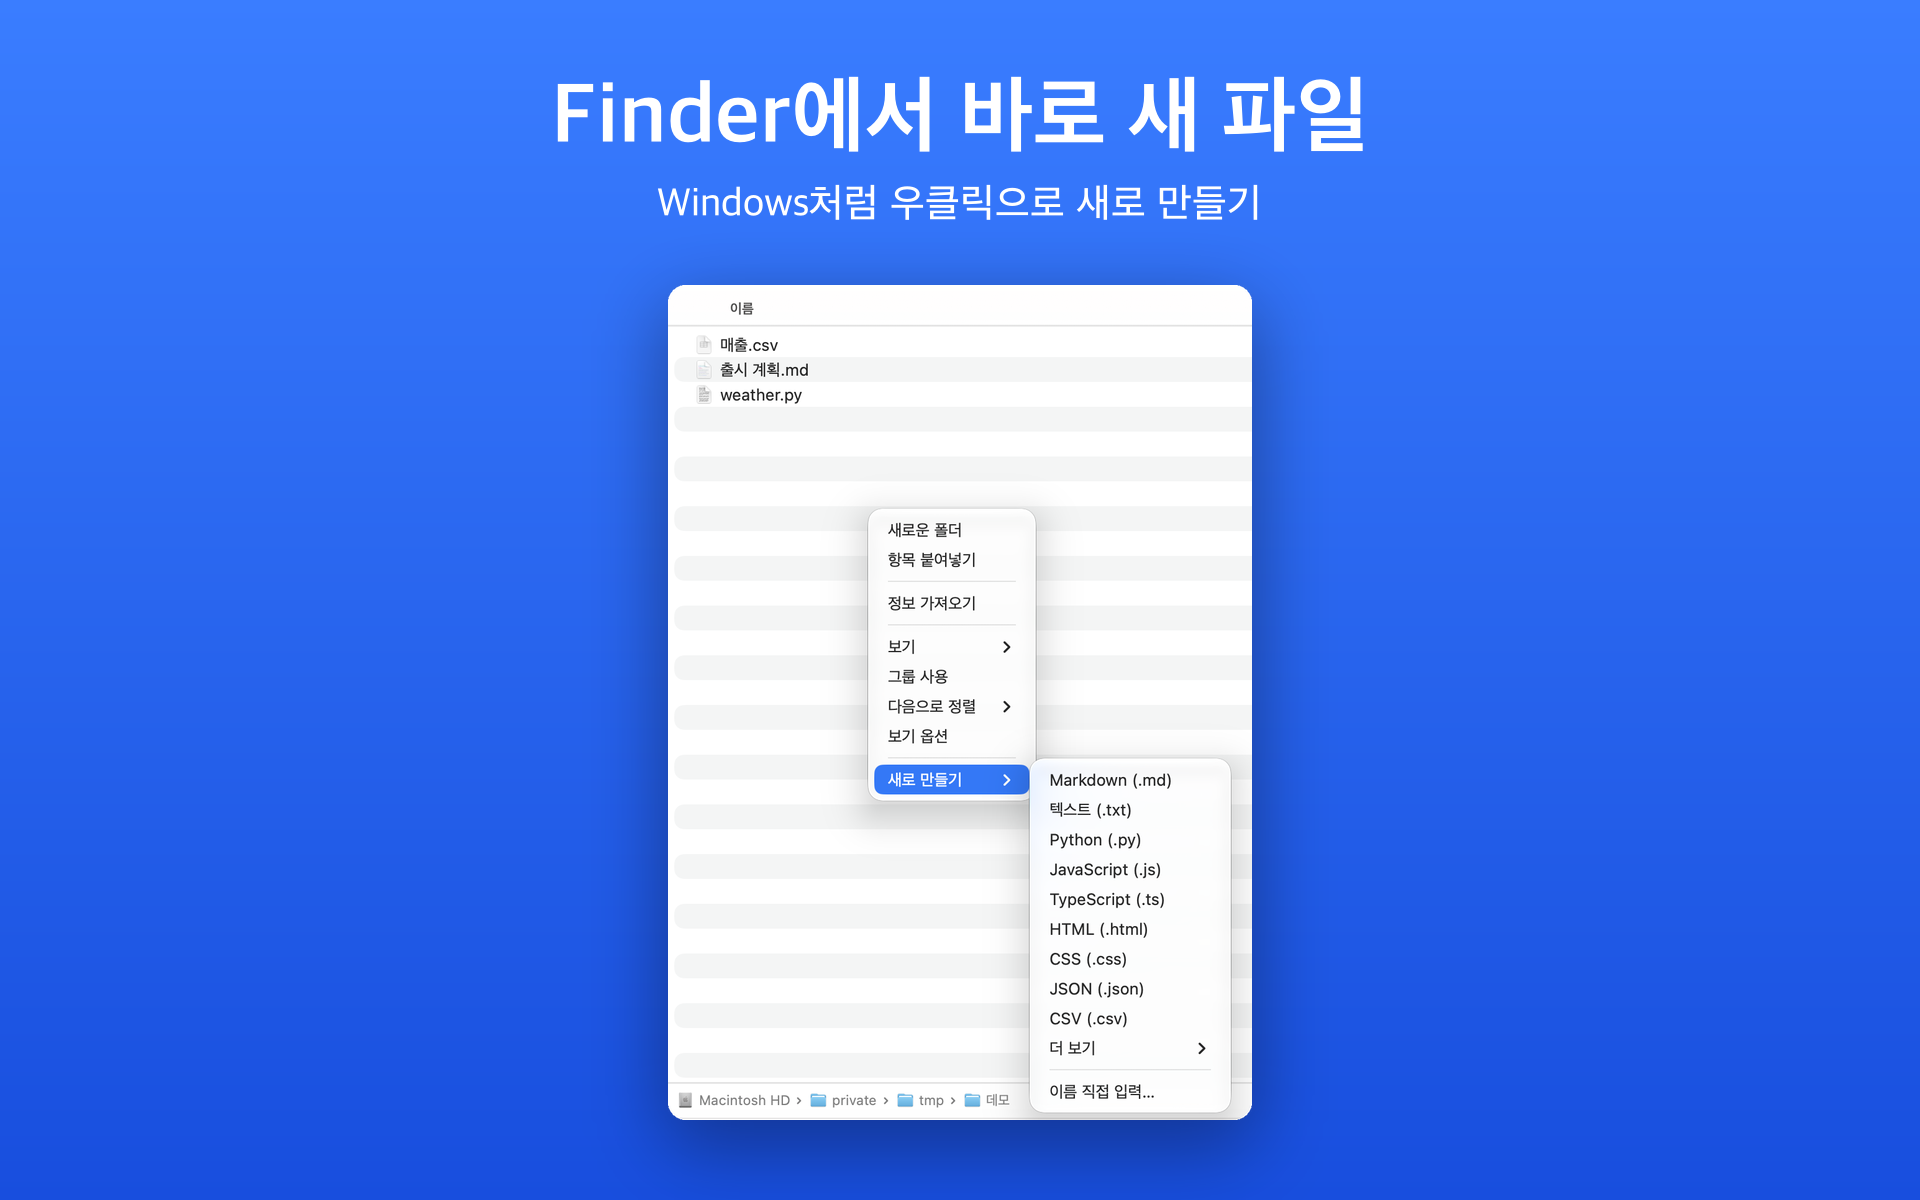
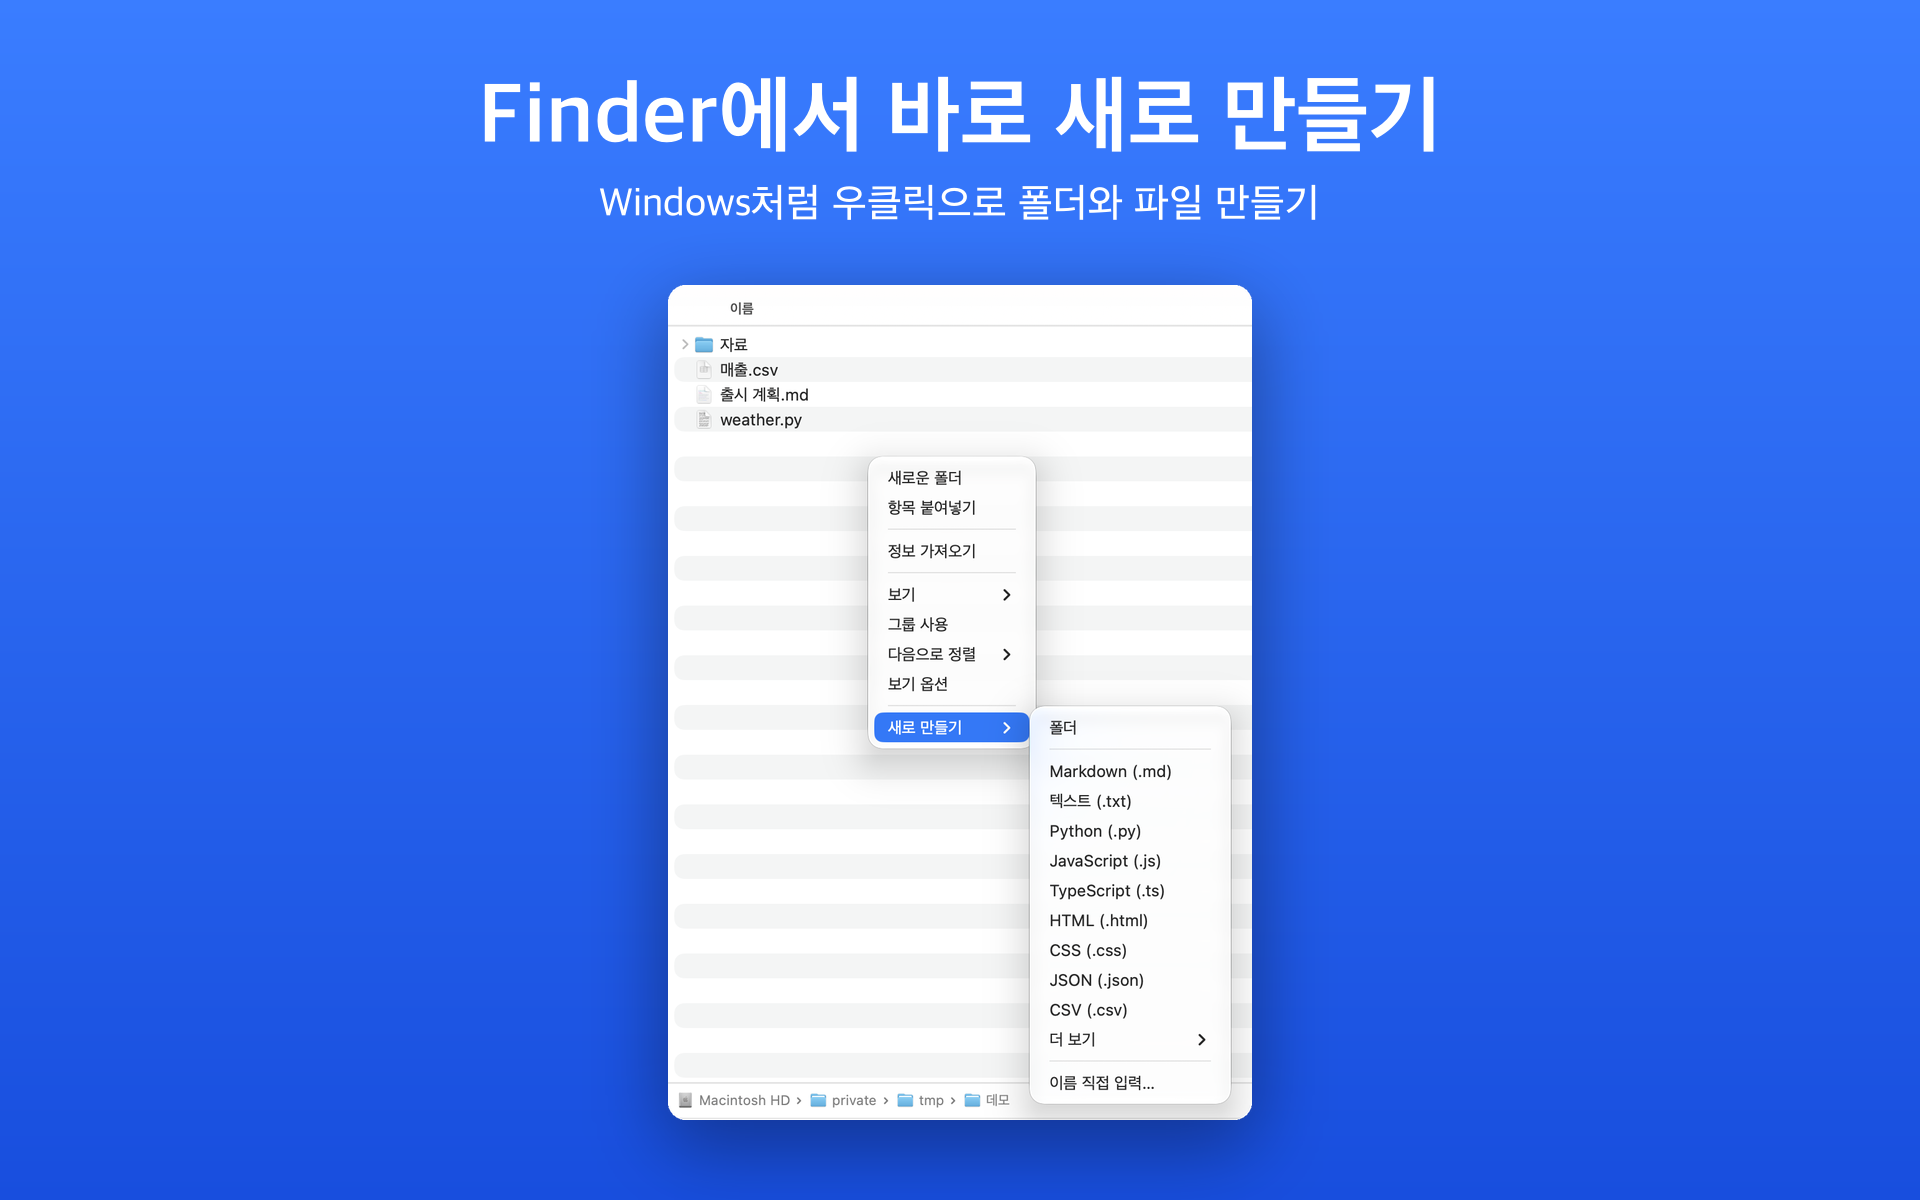
Add New Folder to the Finder menu
The toolbar button and the right-click New menu now start with Folder,
then Markdown and the other formats, as on Windows. The app asks for the
folder's name (Finder's default, 무제 폴더 / untitled folder, preselected),
refuses one that already exists, and selects the new folder in Finder.

install.sh unregisters the installed extensions only when the bundle ID
changed: removing and re-adding the same path raced and could leave the
Finder extension unregistered after a reinstall.

diff --git a/App/App.swift b/App/App.swift
@@ -362,8 +362,8 @@ final class AppDelegate: NSObject, NSApplicationDelegate {
     }
 
     /// From the Finder extension: `markdowneditor://new?dir=/path&ext=py` makes a Python file there,
-    /// `&ask=1` one of any kind. Either way the name prompt shows where and waits for the user, so no
-    /// link (from Finder or a web page) creates a file on its own.
+    /// `&ask=1` one of any kind, `&folder=1` a folder. Every time the name prompt shows where and waits
+    /// for the user, so no link (from Finder or a web page) creates anything on its own.
     @objc private func handleGetURL(_ event: NSAppleEventDescriptor, reply: NSAppleEventDescriptor) {
         guard let string = event.paramDescriptor(forKeyword: keyDirectObject)?.stringValue,
               let components = URLComponents(string: string), components.host == "new",
@@ -371,6 +371,10 @@ final class AppDelegate: NSObject, NSApplicationDelegate {
               case let folder = URL(filePath: dir, directoryHint: .isDirectory),
               (try? folder.resourceValues(forKeys: [.isDirectoryKey]).isDirectory) == true
         else { return }
+        if components.queryItems?.contains(where: { $0.name == "folder" }) == true {
+            if let made = NewFile.createFolder(in: folder) { NSWorkspace.shared.activateFileViewerSelecting([made]) }
+            return
+        }
         let ask = components.queryItems?.contains { $0.name == "ask" } == true
         let ext = components.queryItems?.first { $0.name == "ext" }?.value ?? "md"
         let format = ask ? nil : FileFormat.all.first { $0.extensions.contains(ext.lowercased()) } ?? .markdown
@@ -389,34 +393,23 @@ enum NewFile {
         var name = firstFreeName(in: folder, for: format ?? .text)
         var problem = ""
         while true {
-            let alert = NSAlert()
-            alert.messageText = format.map { String(localized: "새 \($0.name) 파일") } ?? String(localized: "새 파일")
-            alert.informativeText = problem + String(localized: "위치: \(place(folder))")
-                + (format == nil ? "\n" + String(localized: "확장자까지 입력하세요.\n예: main.go, notes.txt, .env") : "")
-            let field = NSTextField(frame: NSRect(x: 0, y: 0, width: 280, height: 24))
-            field.stringValue = name
-            field.usesSingleLineMode = true // a pasted line break becomes a space
-            alert.accessoryView = field
-            alert.addButton(withTitle: String(localized: "만들기"))
-            alert.addButton(withTitle: String(localized: "취소"))
-            alert.window.initialFirstResponder = field
             // A format's prompt selects the name before the extension; "any kind" selects all of it,
             // since the extension is the user's to type.
             let selected = format == nil ? name.utf16.count : (name as NSString).deletingPathExtension.utf16.count
-            DispatchQueue.main.async { field.currentEditor()?.selectedRange = NSRange(location: 0, length: selected) }
-            guard alert.runModal() == .alertFirstButtonReturn else { return nil }
-
-            name = field.stringValue.trimmingCharacters(in: .whitespaces)
+            guard let typed = askName(
+                title: format.map { String(localized: "새 \($0.name) 파일") } ?? String(localized: "새 파일"),
+                note: problem + String(localized: "위치: \(place(folder))")
+                    + (format == nil ? "\n" + String(localized: "확장자까지 입력하세요.\n예: main.go, notes.txt, .env") : ""),
+                name: name, selecting: selected)
+            else { return nil }
+            name = typed
             // A format's own extension goes on unless the name already ends in one: "회의록 v1.2" and
             // "2024.11.17" end in numbers, not extensions.
             if let format, !name.isEmpty, !name.hasPrefix("."), !Self.endsInExtension(name) {
                 name += "." + format.fileExtension
             }
-            guard !name.isEmpty, name != ".", name != "..", !name.contains("/"), !name.contains(":"),
-                  !name.unicodeScalars.contains(where: CharacterSet.controlCharacters.union(.newlines).contains),
-                  // A format's prompt makes visible files: an emptied name leaves just ".md".
-                  format == nil || !name.hasPrefix(".")
-            else {
+            // A format's prompt makes visible files: an emptied name leaves just ".md".
+            guard isUsable(name), format == nil || !name.hasPrefix(".") else {
                 problem = String(localized: "이 이름은 쓸 수 없어요.") + "\n"
                 continue
             }
@@ -431,6 +424,62 @@ enum NewFile {
                 return nil
             }
         }
+    }
+
+    /// Asks for a new folder's name, Finder's 무제 폴더 (무제 폴더 2, …) filled in and selected, and makes
+    /// the folder (never over an existing item). Nil if cancelled.
+    static func createFolder(in folder: URL) -> URL? {
+        NSApp.activate()
+        let untitled = String(localized: "무제 폴더")
+        var name = untitled, n = 1
+        while FileManager.default.fileExists(atPath: folder.appending(path: name).path(percentEncoded: false)) {
+            n += 1
+            name = "\(untitled) \(n)"
+        }
+        var problem = ""
+        while true {
+            guard let typed = askName(title: String(localized: "새 폴더"), note: problem + String(localized: "위치: \(place(folder))"),
+                                      name: name, selecting: name.utf16.count)
+            else { return nil }
+            name = typed
+            guard isUsable(name) else {
+                problem = String(localized: "이 이름은 쓸 수 없어요.") + "\n"
+                continue
+            }
+            let url = folder.appending(path: name, directoryHint: .isDirectory)
+            do {
+                try FileManager.default.createDirectory(at: url, withIntermediateDirectories: false)
+                return url
+            } catch CocoaError.fileWriteFileExists {
+                problem = String(localized: "같은 이름의 항목이 이미 있어요.") + "\n"
+            } catch {
+                NSAlert(error: error).runModal()
+                return nil
+            }
+        }
+    }
+
+    /// The name prompt files and folders share; the typed name, trimmed, or nil if cancelled.
+    private static func askName(title: String, note: String, name: String, selecting length: Int) -> String? {
+        let alert = NSAlert()
+        alert.messageText = title
+        alert.informativeText = note
+        let field = NSTextField(frame: NSRect(x: 0, y: 0, width: 280, height: 24))
+        field.stringValue = name
+        field.usesSingleLineMode = true // a pasted line break becomes a space
+        alert.accessoryView = field
+        alert.addButton(withTitle: String(localized: "만들기"))
+        alert.addButton(withTitle: String(localized: "취소"))
+        alert.window.initialFirstResponder = field
+        DispatchQueue.main.async { field.currentEditor()?.selectedRange = NSRange(location: 0, length: length) }
+        guard alert.runModal() == .alertFirstButtonReturn else { return nil }
+        return field.stringValue.trimmingCharacters(in: .whitespaces)
+    }
+
+    /// A name the file system and Finder accept as one item in the folder.
+    private static func isUsable(_ name: String) -> Bool {
+        !name.isEmpty && name != "." && name != ".." && !name.contains("/") && !name.contains(":")
+            && !name.unicodeScalars.contains(where: CharacterSet.controlCharacters.union(.newlines).contains)
     }
 
     /// Whether the name ends in an extension the app or macOS knows (not just ".2" of "v1.2").

diff --git a/FinderExtension/FinderSync.swift b/FinderExtension/FinderSync.swift
@@ -1,9 +1,10 @@
 import Cocoa
 import FinderSync
 
-/// Finder toolbar button and right-click menu. Asks the (unsandboxed) app to create the file,
-/// since this sandboxed extension can't write into arbitrary folders.
+/// Finder toolbar button and right-click menu. Asks the (unsandboxed) app to create the folder or
+/// file, since this sandboxed extension can't write into arbitrary folders.
 final class FinderSync: FIFinderSync {
+    private static let folderTitle = String(localized: "폴더")
     private static let askTitle = String(localized: "이름 직접 입력…")
     private static let formats = FileFormat.common + FileFormat.more
 
@@ -13,15 +14,17 @@ final class FinderSync: FIFinderSync {
     }
 
     override var toolbarItemName: String { String(localized: "새 파일") }
-    override var toolbarItemToolTip: String { String(localized: "이 폴더에 새 파일 만들기") }
+    override var toolbarItemToolTip: String { String(localized: "여기에 새 폴더나 파일 만들기") }
     override var toolbarItemImage: NSImage {
         NSImage(systemSymbolName: "doc.badge.plus", accessibilityDescription: String(localized: "새 파일"))!
     }
 
-    /// The toolbar button lists the common formats, the rest under 더 보기; a right-click, on a folder's
-    /// background or on a file in it, has the same under 새로 만들기 as on Windows.
+    /// The toolbar button lists a folder, then the common formats, the rest under 더 보기; a right-click,
+    /// on a folder's background or on a file in it, has the same under 새로 만들기 as on Windows.
     override func menu(for menuKind: FIMenuKind) -> NSMenu? {
         let formats = NSMenu()
+        formats.addItem(item(Self.folderTitle))
+        formats.addItem(.separator())
         for format in FileFormat.common { formats.addItem(item(Self.title(for: format))) }
         let more = NSMenuItem(title: String(localized: "더 보기"), action: nil, keyEquivalent: "")
         more.submenu = NSMenu()
@@ -55,7 +58,9 @@ final class FinderSync: FIFinderSync {
         // The folder the menu was opened in, also when it was opened on a file.
         guard let folder = FIFinderSyncController.default().targetedURL() else { return }
         var query = [URLQueryItem(name: "dir", value: folder.path(percentEncoded: false))]
-        if sender.title == Self.askTitle {
+        if sender.title == Self.folderTitle {
+            query.append(URLQueryItem(name: "folder", value: "1"))
+        } else if sender.title == Self.askTitle {
             query.append(URLQueryItem(name: "ask", value: "1"))
         } else if let format = Self.formats.first(where: { Self.title(for: $0) == sender.title }) {
             query.append(URLQueryItem(name: "ext", value: format.fileExtension))

diff --git a/README.ko.md b/README.ko.md
@@ -13,7 +13,7 @@
 ![/ 하나로 원하는 블록을](docs/images/ko-2.png)
 ![코드에 바로 주석 달기](docs/images/ko-3.png)
 ![CSV는 바로 표로](docs/images/ko-4.png)
-![Finder에서 바로 새 파일](docs/images/ko-5.png)
+![Finder에서 바로 새로 만들기](docs/images/ko-5.png)
 
 ## 기능
 
@@ -21,7 +21,7 @@
 - **슬래시 명령.** `/`를 입력하면 제목, 할 일 목록, 표, 토글, 콜아웃, 코드 블록, 목차, 날짜, 새 페이지 링크를 넣을 수 있어요.
 - **코드 에디터처럼 보이는 코드 미리보기.** Python, JavaScript, TypeScript, Go, Rust, Swift, Java, C, C++, 셸, SQL, YAML 등의 코드를 구문 강조, 줄 번호와 함께 보여 줘요. 줄 번호를 누르면 그 언어의 문법에 맞는 주석을 달 수 있어요.
 - **데이터 파일.** CSV와 TSV는 표로 열려요. JSON은 올바른지 알려 주고, 틀렸으면 몇 번째 줄 근처인지 짚어 줘요.
-- **Finder 연동.** 폴더에서 우클릭하고 **새로 만들기**를 고르면 마크다운·텍스트·코드 파일을 만들면서 바로 이름을 정할 수 있어요. 훑어보기(Quick Look)로 마크다운을 미리 볼 수 있어요.
+- **Finder 연동.** 폴더에서 우클릭하거나 도구 막대 버튼을 눌러 **새로 만들기**를 고르면 폴더나 마크다운·텍스트·코드 파일을 만들면서 바로 이름을 정할 수 있어요. 훑어보기(Quick Look)로 마크다운을 미리 볼 수 있어요.
 - **인코딩 유지.** UTF-8(BOM 포함 여부 그대로), UTF-16, CP949 파일을 원래 인코딩으로 저장해요.
 - **한국어와 영어.** 설치할 때 언어를 고르거나 macOS 언어를 따르게 할 수 있어요.
 

diff --git a/README.md b/README.md
@@ -20,7 +20,7 @@
 - **Slash commands.** Type `/` to insert a heading, to-do list, table, toggle, callout, code block, table of contents, date or a link to a new page.
 - **Code files with a code-editor preview.** Python, JavaScript, TypeScript, Go, Rust, Swift, Java, C, C++, shell, SQL, YAML and more open with syntax highlighting and line numbers. Click a line number to add a comment in that language's syntax.
 - **Data files.** CSV and TSV open as tables. JSON shows whether it's valid, and points to the line when it isn't.
-- **Finder integration.** Right-click in a folder and choose **New** to create a Markdown, text or code file and name it right away. Quick Look previews Markdown files.
+- **Finder integration.** Right-click in a folder, or use the toolbar button, and choose **New** to create a folder or a Markdown, text or code file and name it right away. Quick Look previews Markdown files.
 - **Keeps your encoding.** UTF-8 (with or without BOM), UTF-16 and CP949 files are saved in their original encoding.
 - **Korean and English.** Choose the language when you install, or let it follow macOS.
 
